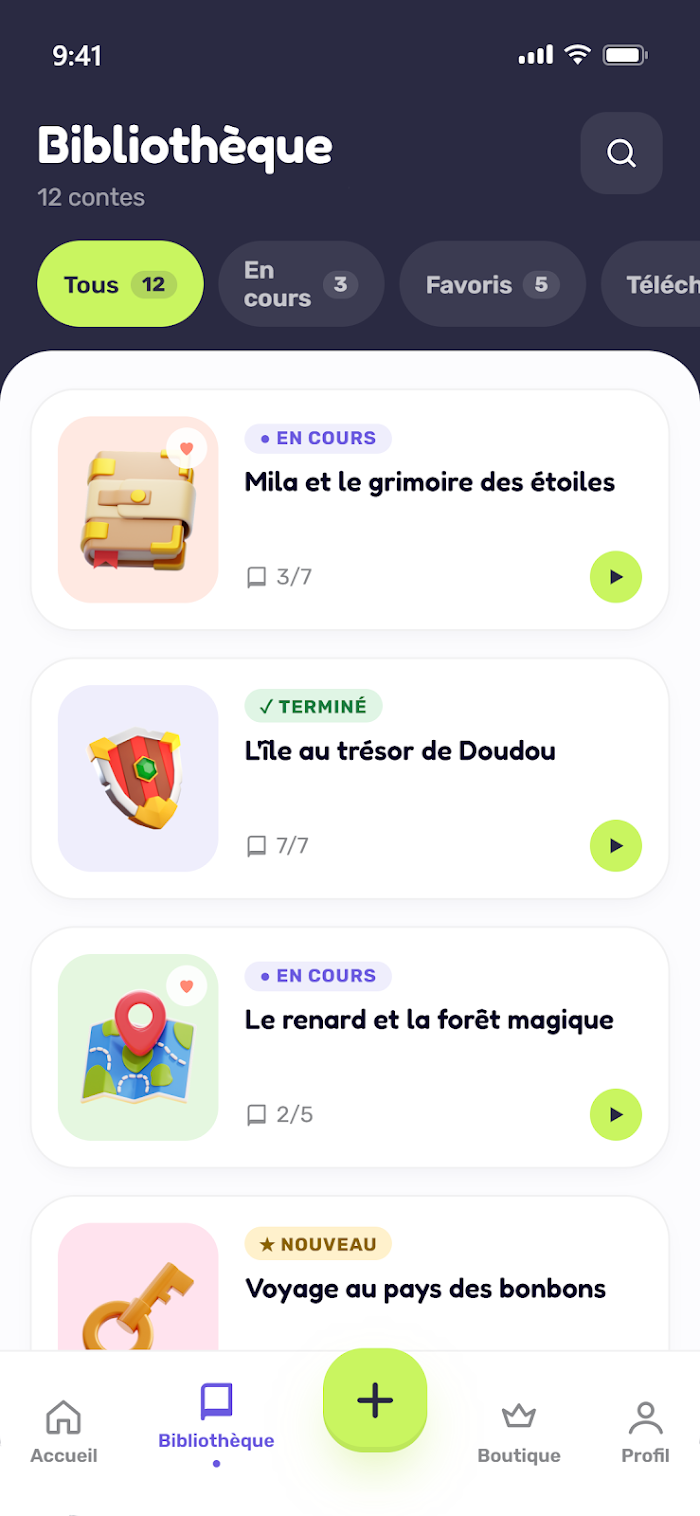
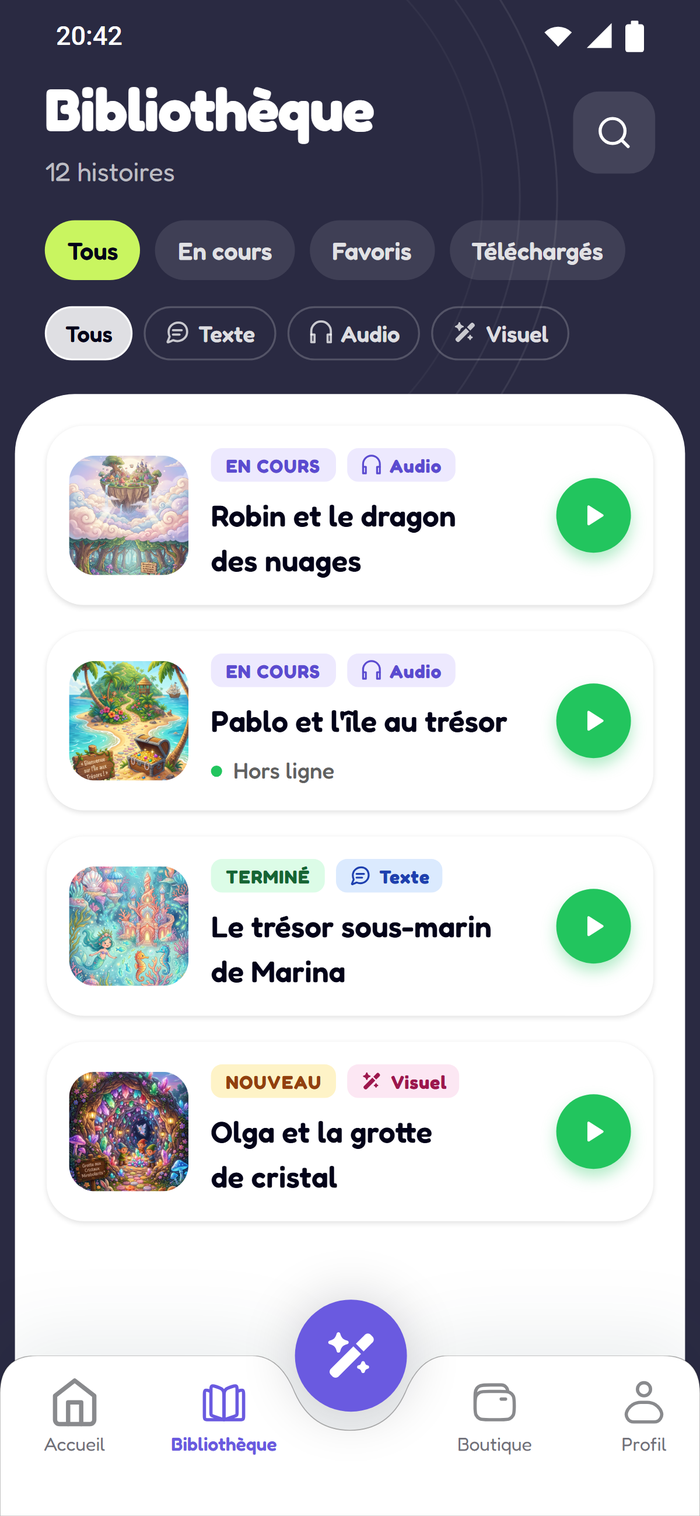
fix: update screens

diff --git a/src/components/sections/HowItWorksSection.tsx b/src/components/sections/HowItWorksSection.tsx
@@ -8,7 +8,7 @@ const steps = [
     description:
       "Il compose son équipe de héros, puis ajoute un objet magique et un décor dans la galerie.",
     image: "/images/app/choix-heros.png",
-    alt: "Écran Contéo « Choisis tes héros » avec Luna la Fée et Merlin le Sorcier sélectionnés",
+    alt: "Écran Contéo « Choisis tes héros » avec Marina la Sirène et Robin le Chevalier sélectionnés",
   },
   {
     title: "Vous réglez l'histoire",
